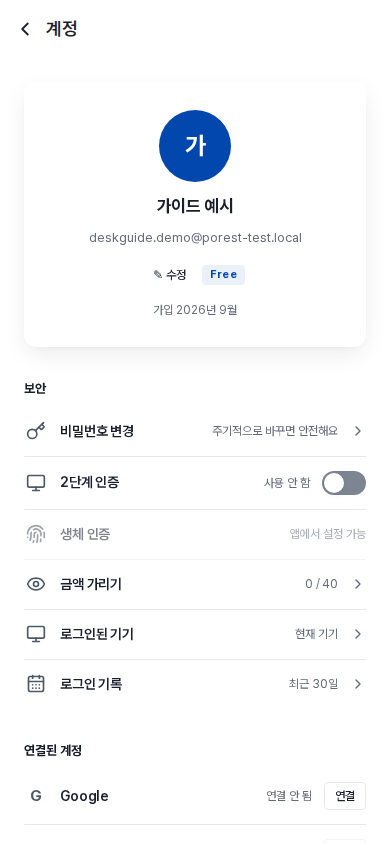
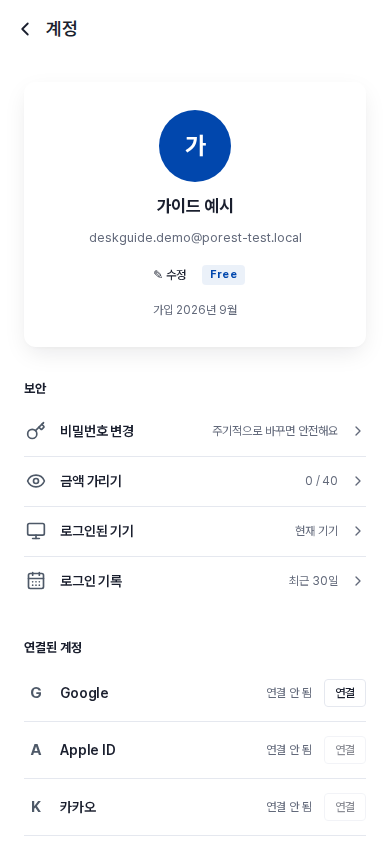
docs(settings): 계정 보안 항목 정리, 자산 통화·환율, 프리셋 메모, 캘린더 추가 반영
- 계정: 2단계 인증·생체 인증 행이 웹에서 빠진 걸 확인해 스크린샷·문구에서
  걷어낸다. 프로필의 [✎ 수정] 버튼은 아직 미구현 자리라고 명시한다(2026-09-10
  사용자 지시 — 죽은 버튼으로 보고하지 말고 문서에 기록)
- 계좌·카드·투자 등록에 통화(14종)·환율 칸이 생긴 걸 반영한다(2026-09-08 결정)
- 프리셋 추가 폼의 메모(설명) 칸을 반영한다(2026-09-08 결정)
- 캘린더: [+ 캘린더 추가]로 여러 캘린더를 만들 수 있다는 것과, 기본 캘린더는
  표시 스위치 자체가 없어 숨길 수 없다는 것을 반영한다(2026-09-09 결정)

Release-Note: skip

diff --git a/docs/settings/account-card.md b/docs/settings/account-card.md
@@ -17,7 +17,11 @@ title: 계좌 · 카드 관리
 1. **[+ 계좌 추가]**
 2. **기관 · 브랜드**를 검색하거나 목록(시중은행 · 인터넷은행 · 지방은행 · 특수은행 · 저축기관 · 외국계 · 현금 등 총 34개)에서 고릅니다
 3. **계좌 종류**(입출금 · 마이너스통장 · 적금 · 예금 · 현금 · 대출)를 고릅니다
-4. **별칭**(최대 30자 · 이미 쓰고 있는 이름과 같으면 저장하기 전에 알려 줍니다), **잔액**, 필요하면 **메모**를 입력합니다
+4. **별칭**(최대 30자 · 이미 쓰고 있는 이름과 같으면 저장하기 전에 알려 줍니다), **잔액**, **통화**(기본 KRW · USD 등 14종 중 고를 수 있습니다), 필요하면 **환율**과 **메모**를 입력합니다
+
+:::info[외화 계좌는 환율을 넣어야 순자산에 정확히 반영돼요]
+통화를 KRW가 아닌 걸로 바꾸면 **환율** 칸이 나타납니다. "순자산은 잔액 × 환율로 환산합니다. 비워 두면 환산 없이 그대로 더해집니다" — 예를 들어 USD 계좌에 1,000을 넣고 환율을 비워두면 순자산에 1,000원으로 더해집니다(1,000달러가 아니라). 환율은 그때그때 자동으로 갱신되지 않으니, 정확한 금액을 반영하려면 실제 환율로 직접 채워야 합니다. 카드 · 투자 자산 등록에도 같은 통화 · 환율 칸이 있습니다.
+:::
 5. **전체 자산 합계에 포함** 스위치 — 끄면 이 계좌는 등록은 되지만 순자산 · 총자산 계산에서 빠집니다(예: 내 돈이 아닌 임시 보관 계좌)
 6. **[추가]**
 

diff --git a/docs/settings/account.md b/docs/settings/account.md
@@ -8,19 +8,19 @@ title: 계정
 <Tabs groupId="device">
 <TabItem value="desktop" label="데스크톱">
 
-![계정 설정 — 프로필, 보안(비밀번호 · 2단계인증 · 생체인증 · 금액 가리기 · 로그인된 기기 · 로그인 기록)](/img/screens/settings-account.png)
+![계정 설정 — 프로필, 보안(비밀번호 · 금액 가리기 · 로그인된 기기 · 로그인 기록)](/img/screens/settings-account.png)
 
 </TabItem>
 <TabItem value="mobile" label="모바일">
 
-![계정 설정 — 프로필, 보안(비밀번호 · 2단계인증 · 생체인증 · 금액 가리기 · 로그인된 기기 · 로그인 기록)](/img/screens/mobile-settings-account.png)
+![계정 설정 — 프로필, 보안(비밀번호 · 금액 가리기 · 로그인된 기기 · 로그인 기록)](/img/screens/mobile-settings-account.png)
 
 </TabItem>
 </Tabs>
 
 ## 프로필 · 비밀번호
 
-이름 등 프로필 정보를 고치고, 비밀번호를 변경합니다.
+**비밀번호 변경**은 됩니다. 프로필 옆의 **[✎ 수정]** 버튼은 이름 · 이메일 같은 개인정보를 바꾸는 자리로 마련되어 있지만, **아직 눌러도 아무 일도 일어나지 않습니다** — 나중에 채워질 자리입니다.
 
 ## 연결된 계정
 

diff --git a/docs/settings/calendar.md b/docs/settings/calendar.md
@@ -66,7 +66,11 @@ title: 캘린더 라벨 · 공유
 
 ## 캘린더 공유
 
-내 캘린더를 다른 사람과 공유하거나, 공유받은 캘린더를 내 화면에 함께 표시할지 관리합니다.
+**[+ 캘린더 추가]** 로 "내 캘린더(기본)" 외에 새 캘린더를 만들 수 있습니다. 여기서는 내 캘린더를 다른 사람과 공유하거나, 공유받은 캘린더를 내 화면에 함께 표시할지 관리합니다.
+
+:::info[기본 캘린더는 숨길 수 없어요]
+새로 만든 캘린더는 목록에서 표시 · 숨김을 끄고 켤 수 있지만, "내 캘린더(기본)"에는 그 스위치 자체가 없습니다 — 일정은 반드시 캘린더 하나에 속해야 하고 기본 캘린더가 그 최소 보장이라, 전부 숨겨서 일정 화면이 텅 비는 상태를 만들 수 없게 되어 있습니다.
+:::
 
 :::info["다중 캘린더 공유"는 Porest Pro 기능입니다]
 Free · Pro 요금 비교표에는 "다중 캘린더 공유"가 Pro 전용으로 표시됩니다. 정확히 몇 개까지가 Free의 기본 공유 범위인지는 이 문서에서 다루지 않으니, 여러 캘린더를 동시에 공유해야 한다면 [구독](../subscription/subscription.md) 화면에서 현재 플랜의 제한을 확인하세요.

diff --git a/docs/settings/preset.md b/docs/settings/preset.md
@@ -24,7 +24,7 @@ title: 프리셋
 
 1. **[+ 프리셋 추가]**
 2. **유형**(지출 · 수입), **프리셋 이름**(최대 12자 · 이미 있는 프리셋과 같은 이름이면 저장하기 전에 알려 줍니다), **카테고리**, **기본 내역**(거래처)을 입력합니다
-3. 필요하면 **결제 수단**, **계좌 · 카드**를 미리 정해둡니다
+3. 필요하면 **메모**로 이 프리셋에 대한 설명을 남기고, **결제 수단**, **계좌 · 카드**를 미리 정해둡니다
 4. **고정 금액 사용**을 켜면 금액까지 프리셋에 저장되고, 꺼두면 불러올 때마다 금액만 비워둔 채로 열립니다(매번 금액이 달라지는 거래에 편리합니다)
 5. **[추가]**
 
